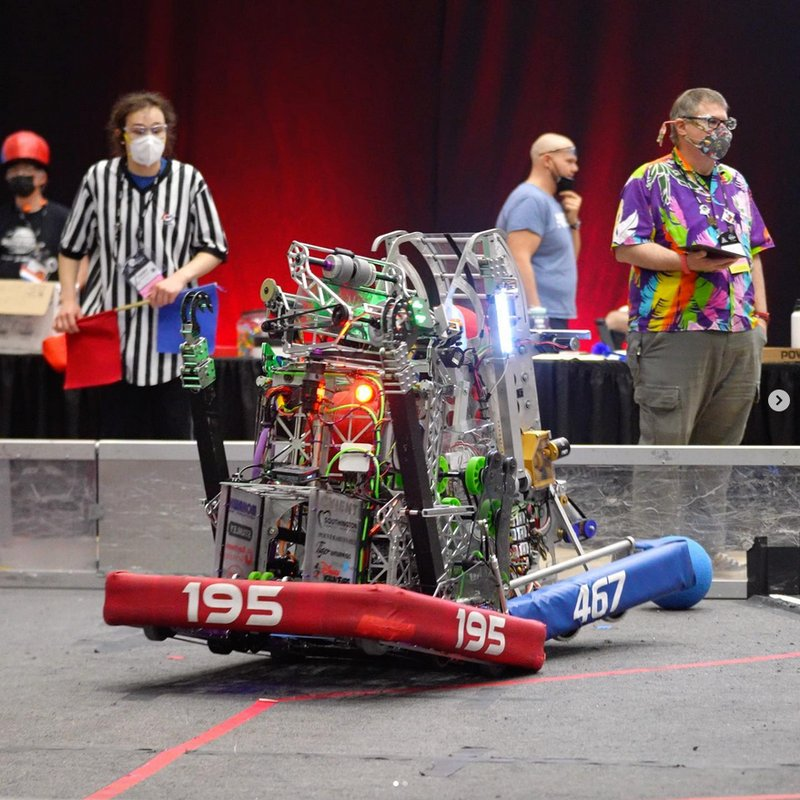
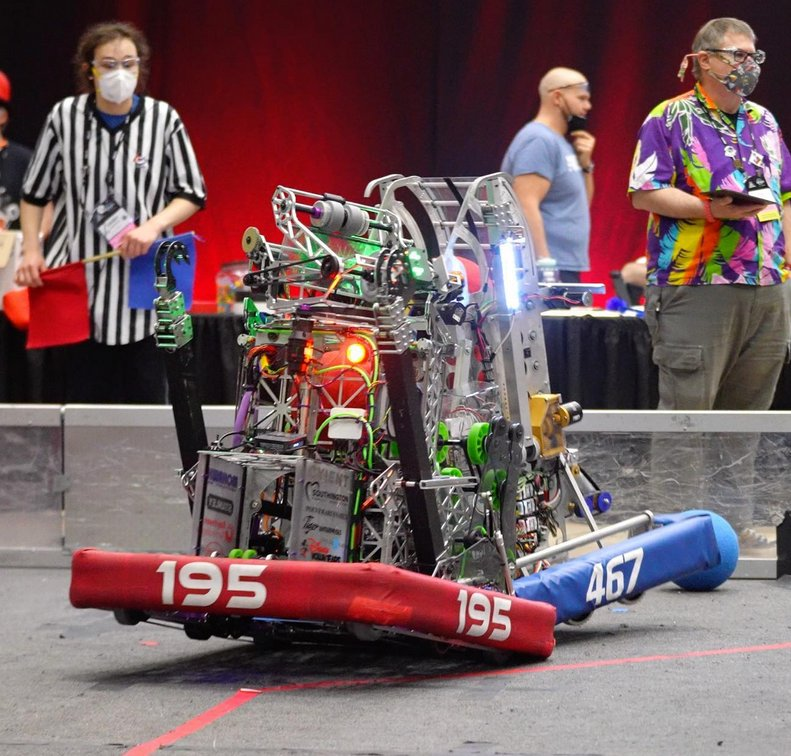
Make the FRC robots rare in the helix and preview them with real photos
Robots now go on the helix once each (every other project repeats),
about one card in five, spaced out with the other projects between them
instead of in one run. Their previews are real photos instead of CAD.

Pages mark themselves with helix: rare. Focusing a card on the second
strand with the keyboard now stops it a little short of the faded ends
so it stays visible on phones. Also fixes a caption that called
Redundancy's CAD render a match photo.

Claude-Session: https://claude.ai/code/session_01Caaip3km7isTfk8JPcmnQU

diff --git a/js/helix.js b/js/helix.js
@@ -18,6 +18,7 @@
   var TAU = Math.PI * 2;
   var TURNS = 2;                       // full rotations from the top of a strand to the bottom
   var STRANDS = 2;
+  var RARE_GAP = 5;                    // one rare card per this many cards in the helix
   var DRIFT = 0.2;                     // cards per second of ambient motion
   var FRICTION = 0.94;                 // per-frame velocity decay after a flick, at 60fps
   var FLOOR = 0.08;                    // minimum opacity of far-side cards
@@ -41,7 +42,32 @@
     host.setAttribute('data-helix-ready', '1');
 
     var N = links.length;
-    var PER = N * Math.max(1, Math.round(16 / N)); // cards per strand (about 16): each project appears evenly
+
+    /* ------------------------------------------------------------ the deal */
+
+    // Which project sits in each slot of each strand. Normally the projects repeat evenly
+    // along both strands. Projects marked data-rare (the individual FRC robots) go in just
+    // once, with about RARE_GAP - 1 other cards between one and the next, so they turn up
+    // now and then instead of crowding the helix; the rest repeat to fill the gaps.
+    var rare = links.filter(function (a) { return a.hasAttribute('data-rare'); });
+    var common = links.filter(function (a) { return !a.hasAttribute('data-rare'); });
+    var layout = [[], []];
+
+    if (rare.length && common.length) {
+      // Enough cards for the gap, and for every other project to appear at least twice.
+      var total = Math.max(rare.length * RARE_GAP, rare.length + 2 * common.length);
+      total += total % 2;                         // an even deck deals the same count to each strand
+      var deck = new Array(total), taken = 0;
+      rare.forEach(function (a, k) { deck[Math.floor((k + 0.5) * total / rare.length)] = a; });
+      for (var d = 0; d < total; d++) if (!deck[d]) deck[d] = common[taken++ % common.length];
+      // Dealing alternately sends neighbouring rare cards to opposite strands.
+      deck.forEach(function (a, d) { layout[d % 2].push(a); });
+    } else {
+      var each = N * Math.max(1, Math.round(16 / N)); // about 16 per strand, each project evenly
+      for (var t = 0; t < STRANDS; t++) for (var j = 0; j < each; j++) layout[t].push(links[j % N]);
+    }
+
+    var PER = layout[0].length;                   // cards per strand
 
     /* ----------------------------------------------------------- build cards */
 
@@ -50,21 +76,27 @@
     stage.appendChild(world);
 
     var cards = [];
+    var shown = [];                               // projects that already have their real link on the helix
+    var repeats = [];
     for (var s = 0; s < STRANDS; s++) {
       for (var i = 0; i < PER; i++) {
-        var link = links[i % N];
-        var primary = s === 0 && i < N;
+        var link = layout[s][i];
+        var primary = shown.indexOf(link) < 0;
+        if (primary) shown.push(link);
         var el = primary ? link : link.cloneNode(true);
         if (!primary) {
           // Repeats are decoration; only one real link per project is exposed to keyboards
           // and assistive technology.
           el.setAttribute('aria-hidden', 'true');
           el.setAttribute('tabindex', '-1');
+          repeats.push(el);
         }
-        world.appendChild(el);
         cards.push({ el: el, base: i, phase: s * Math.PI, strand: s, live: true });
       }
     }
+    // Real links go in first, in list order, so tabbing visits the projects in that order.
+    links.forEach(function (a) { world.appendChild(a); });
+    repeats.forEach(function (a) { world.appendChild(a); });
     host.classList.add('is-live');
 
     // Crop an image to the card only when that costs little; otherwise show it whole so
@@ -254,19 +286,19 @@
     // Keyboard: focusing a card spins it round to the front of the helix.
     function bringToFront(card) {
       var cur = wrap(card.base + travel, PER) / PER;
-      // Progress values at which this strand faces the viewer (angle = 0 mod 2PI).
+      // Progress values at which this strand faces the viewer (angle = 0 mod 2PI). The second
+      // strand faces front a quarter of the way down and up, which is inside the faded ends,
+      // so those cards stop a little short, turned about 35 degrees, where they stay clear.
       var offset = card.strand ? 0.5 / TURNS : 0;
       var best = null;
-      [[0.3, 0.7], [0.2, 0.8]].some(function (range) {
-        for (var m = -1; m <= TURNS + 1; m++) {
-          var p = m / TURNS + offset;
-          if (p < range[0] || p > range[1]) continue; // stay clear of the faded ends
-          var delta = p - cur;
-          delta -= Math.round(delta);
-          if (best === null || Math.abs(delta) < Math.abs(best)) best = delta;
-        }
-        return best !== null;
-      });
+      for (var m = -1; m <= TURNS + 1; m++) {
+        var p = m / TURNS + offset;
+        if (p < 0.2 || p > 0.8) continue;
+        p = Math.min(0.7, Math.max(0.3, p));
+        var delta = p - cur;
+        delta -= Math.round(delta);
+        if (best === null || Math.abs(delta) < Math.abs(best)) best = delta;
+      }
       if (best === null) return;
       var goal = travel + best * PER;
       if (reduceMotion.matches) travel = goal; else target = goal;

diff --git a/_includes/projects/helix.html b/_includes/projects/helix.html
@@ -4,6 +4,8 @@
   it simply shows as a grid of linked thumbnails. Pages that belong to another project
   (a `parent:` in their front matter, like each FRC robot) are included here, with their
   parent's name in front of the date; the "See all" count only counts top-level projects.
+  A page with `helix: rare` in its front matter (each FRC robot) is marked data-rare: js/helix.js
+  puts it on the helix once, spread out among the other projects, which appear several times.
 {%- endcomment -%}
 {% assign project_pages = site.pages | where: "type", "project" | sort: "weight" %}
 {% assign not_draft = 0 %}
@@ -24,7 +26,7 @@
         {%- assign caption_date = parent_page.title | append: ' · ' | append: page.date -%}
       {%- endif -%}
       <li>
-        <a class="helix__card"
+        <a class="helix__card"{% if page.helix == 'rare' %} data-rare{% endif %}
            href="{% if page.projecturl %}{{ page.projecturl }}{% else %}{{ site.baseurl }}{{ page.url }}{% endif %}"
            draggable="false"
            data-title="{{ page.title | escape }}"

diff --git a/projects/frcRedundancy.md b/projects/frcRedundancy.md
@@ -2,7 +2,8 @@
 layout: project
 type: project
 parent: frcRobots
-image: img/frc/19025isolate.png
+helix: rare
+image: img/frc/19025setup.jpg
 title: "Redundancy"
 date: "2025"
 weight: 2.3
@@ -36,8 +37,8 @@ summary: "Our 2025 robot for Reefscape, which advanced far into its division at 
 
 <div class="gallery">
   <figure>
-    <img src="../img/frc/1902025.jpeg" alt="Redundancy during a match">
-    <figcaption>Redundancy during a match</figcaption>
+    <img src="../img/frc/1902025.jpeg" alt="Redundancy CAD, isometric view">
+    <figcaption>Redundancy CAD, isometric view</figcaption>
   </figure>
   <figure>
     <img src="../img/frc/19025setup.jpg" alt="Redundancy on the field before a match">

diff --git a/projects/frcDoomspiral.md b/projects/frcDoomspiral.md
@@ -2,7 +2,8 @@
 layout: project
 type: project
 parent: frcRobots
-image: img/frc/190doomspiralCAD.png
+helix: rare
+image: img/frc/190doomsprialShot.jpg
 title: "Doomspiral"
 date: "2026"
 weight: 2.2

diff --git a/projects/frcTurnover.md b/projects/frcTurnover.md
@@ -2,7 +2,8 @@
 layout: project
 type: project
 parent: frcRobots
-image: img/frc/190turnoverCAD.png
+helix: rare
+image: img/frc/190turnoverreallife.jpg
 title: "Turnover"
 date: "2026"
 weight: 2.1

diff --git a/projects/frcKnightTime.md b/projects/frcKnightTime.md
@@ -2,7 +2,8 @@
 layout: project
 type: project
 parent: frcRobots
-image: img/frc/19523CAD.png
+helix: rare
+image: img/frc/19523score.png
 title: "KnightTime"
 date: "2023"
 weight: 2.5

diff --git a/projects/frcSnapback.md b/projects/frcSnapback.md
@@ -2,7 +2,8 @@
 layout: project
 type: project
 parent: frcRobots
-image: img/frc/19024cad.png
+helix: rare
+image: img/frc/19024pickuo.jpg
 title: "Snapback"
 date: "2024"
 weight: 2.4

diff --git a/projects/frcNightwatch.md b/projects/frcNightwatch.md
@@ -2,6 +2,7 @@
 layout: project
 type: project
 parent: frcRobots
+helix: rare
 image: img/frc/19522clash.png
 title: "Nightwatch"
 date: "2022"
